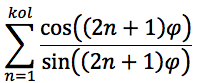
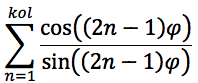
Added 4 new function

Changed region(s): [[0.6364, 0.6506, 0.6667, 0.8434], [0.6364, 0.241, 0.6667, 0.4337]]

diff --git a/src/modules/rFiAlgoritm.js b/src/modules/rFiAlgoritm.js
@@ -136,6 +136,18 @@ rFiAlgoritm = {
           pogresnost = Math.abs( Math.tan(globalVar.getFi(newX)) - arg );
           return pogresnost;
           break;
+      case 19 :       //  Погрешность для суммы sin(2k-1)fi /cos(2k-1)fi
+          pogresnost = Math.abs( 1 - arg );
+          return pogresnost;
+          break;
+      case 20 :       //  Погрешность для суммы
+          pogresnost = Math.abs( 1 - arg );
+          return pogresnost;
+          break;
+      case 21 :       //  Погрешность для суммы
+          pogresnost = Math.abs( Math.tan(globalVar.getFi(newX)) - arg );
+          return pogresnost;
+          break;
       default:
         return 'Нет погрешности для r';
         break
@@ -220,11 +232,9 @@ rFiAlgoritm = {
           break;
       case 16 :       //  Погрешность для суммы sin(4k-1)
             pogresnost = this.kratnoPi(Math.PI/2, globalVar.getFi(newX), arg);
-        //   pogresnost = Math.abs(globalVar.getFi(newX) - arg );
           return pogresnost;
           break;
       case 17 :       //  Погрешность для суммы cos(2k-1)fi /sin(2k-1)fi
-        //   pogresnost = Math.abs( Math.PI/2 - arg );
           pogresnost = Math.abs( Math.tan(globalVar.getFi(newX)) - arg );
           return pogresnost;
           break;
@@ -232,34 +242,26 @@ rFiAlgoritm = {
           pogresnost = Math.abs( 0 - arg );
           return pogresnost;
           break;
+      case 19 :       //  Погрешность для суммы cos(2k-1)fi /sin(2k-1)fi
+        pogresnost = Math.abs( Math.PI/2 - arg );
+        return pogresnost;
+        break;
+      case 20 :       //  Погрешность
+        pogresnost = Math.abs( Math.abs(globalVar.getFi(newX)) - arg );
+        return pogresnost;
+        break;
+      case 21 :       //  Погрешность
+        pogresnost = Math.abs( 0 - arg );
+        return pogresnost;
+        break;
+      case 22 :       //  Погрешность
+        pogresnost = Math.abs( 0 - arg );
+        return pogresnost;
+        break;
 
       default:
         return 'Нет погрешности для r';
         break
     }
   },
-
-  // getResult(colTab, value) {            //
-  //   switch(colTab) {                // где colTab -
-  //     case 'r' :       // r
-  //         resultTable.r[resultTable.countStr] = value;
-  //         resultTable.countStr += resultTable.countStr;
-  //         break;
-  //     case 'fi' :      // fi
-  //         resultTable.fi[resultTable.countStr] = value;
-  //         resultTable.countStr += resultTable.countStr;
-  //         break;
-  //     case 'er' :      // Погрешность r
-  //         resultTable.eR[resultTable.countStr] = value;
-  //         resultTable.countStr += resultTable.countStr;
-  //         break;
-  //     case 'efi' :     // Погрешность fi
-  //         resultTable.eFi[resultTable.countStr] = value;
-  //         resultTable.countStr += resultTable.countStr;
-  //         break;
-
-  //     default:
-  //       return 'Нет такой колонки';
-  //       break
-  // }
 };

diff --git a/src/modules/trigonom-func.js b/src/modules/trigonom-func.js
@@ -61,13 +61,23 @@ const trigonometFunc = {
           return this.summSin4n_1( countPQ, globalVar.getFi(newX) );
           break;
       case 17 :       //  Вычисления для суммы cos(2k-1)fi /sin(2k-1)fi
-          // return this.summCosDivSin3( countPQ, globalVar.getFi(newX) );
-          return this.summ_N_Sin( countPQ, globalVar.getFi(newX) );
+          return this.summNecet_Cos_Div_NecetSin( countPQ, globalVar.getFi(newX) );
           break;
-      case 18 :       //  Вычисления для суммы знакопеременного cos(2k-1)fi /sin(2k-1)fi
+      case 18 :       //  Вычисления для суммы знакопеременного (-1)^(n+1)cos(2k-1)fi /sin(2k-1)fi
           return this.summCosZnakoPeremen_DivSin( countPQ, globalVar.getFi(newX) );
           break;
-
+      case 19 :       //  Вычисления для суммы cos(k fi) /sin(k fi)
+          return this.summCosDivSin( countPQ, globalVar.getFi(newX) );
+          break;
+      case 20 :       //  Вычисления для суммы sin(2k)fi /sin(2k-1)fi
+          return this.summChetnSinDivNecetSin( countPQ, globalVar.getFi(newX) );
+          break;
+      case 21 :       //  Вычисления для суммы знакопеременного (-1)^(n+1)cos(2k-1)fi /(-1)^(n+1)sin(2k-1)fi
+          return this.summCosZnakoPeremen_DivSin( countPQ, globalVar.getFi(newX) );
+          break;
+      case 22 :       //  Вычисления для суммы  (1+1/n)*sin(k fi)
+          return this.summ_N_Sin( countPQ, globalVar.getFi(newX) );
+          break;
       default:
             return 'Нет такой функции';
             break
@@ -183,19 +193,19 @@ const trigonometFunc = {
     this.massPQ[n] = Math.sin((n+1)*fi) / Math.sin(n*fi);
     return this.massPQ[n];
   },
-  summCosDivSin(n, fi) {
+  summNecet_Cos_Div_NecetSin(n, fi) {
     this.massPQ2[n] = this.massPQ2[n-1] + Math.cos((2*n-1)*fi);
     this.massPQ3[n] = this.massPQ3[n-1] + Math.sin((2*n-1)*fi);
     this.massPQ[n] = this.massPQ2[n] / this.massPQ3[n];
     return this.massPQ[n];
   },
-  summCosDivSin2(n, fi) {
+  summCosDivSin(n, fi) {
     this.massPQ2[n] = this.massPQ2[n-1] + Math.cos(n*fi);
     this.massPQ3[n] = this.massPQ3[n-1] + Math.sin(n*fi);
     this.massPQ[n] = this.massPQ2[n] / this.massPQ3[n];
     return this.massPQ[n];
   },
-  summCosDivSin3(n, fi) {
+  summChetnSinDivNecetSin(n, fi) {
     this.massPQ2[n] = this.massPQ2[n-1] + Math.sin((2*n)*fi);
     this.massPQ3[n] = this.massPQ3[n-1] + Math.sin((2*n-1)*fi);
     this.massPQ[n] = this.massPQ2[n] / this.massPQ3[n];
@@ -212,7 +222,7 @@ const trigonometFunc = {
     return this.massPQ[n];
   },
 
-  summCosZnakoPeremen_DivSin2(n, fi) {
+  summZnPeremCos_Div_ZnPeremSin(n, fi) {
     if (n % 2 === 0) {
       this.massPQ2[n] = this.massPQ2[n-1] - Math.cos((2*n-1)*fi);
     } else {

diff --git a/src/modules/tableCreate.js b/src/modules/tableCreate.js
@@ -51,7 +51,11 @@ const tableHeader2 = {
   15 : standartHeder,
   16 : standartHeder,
   17 : standartHeder,
-  18 : standartHeder
+  18 : standartHeder,
+  19 : standartHeder,
+  20 : standartHeder,
+  21 : standartHeder,
+  22 : standartHeder
 };
 
 const funcIamges = {
@@ -166,14 +170,38 @@ const funcIamges = {
   17 : {
     mainImg :   "../../img/func-17.png",
     secondImg : "../../img/func-17.png",
-    altImgText: 'summCosDivSin((2n-1) fi)',
-    text: 'Функция сумма  cos((2n-1) fi) / sin((2n-1) fi)'
+    altImgText: 'summNecet_Cos_Div_NecetSin((2k-1)fi)',
+    text: 'Функция сумма дроби нечётных знакопеременных косинусов на синусы cos((2n-1) fi) / sin((2n-1) fi)'
   },
   18 : {
     mainImg :   "../../img/func-18.png",
     secondImg : "../../img/func-18.png",
+    altImgText: 'summCosZnakoPeremen_DivSin((2k-1)fi)',
+    text: 'Функция сумма  дроби  знакопеременного косинуса на синус ( (-1)^(n+1) * cos((2n-1) fi) ) / sin((2n-1) fi)'
+  },
+  19 : {
+    mainImg :   "../../img/func-19.png",
+    secondImg : "../../img/func-19.png",
     altImgText: 'summCosDivSin((2n-1) fi)',
-    text: 'Функция сумма  ( (-1)^(n+1) * cos((2n-1) fi) ) / sin((2n-1) fi)'
+    text: 'Функция сумма  cos((n fi) / sin(n fi)'
+  },
+  20 : {
+    mainImg :   "../../img/func-20.png",
+    secondImg : "../../img/func-20.png",
+    altImgText: 'summChetnSinDivNecetSin((2n) fi)',
+    text: 'Функция сумма дроби чётного синуса на нечётный синус sin((n fi) / sin((2n-1) fi)'
+  },
+  21 : {
+    mainImg :   "../../img/func-21.png",
+    secondImg : "../../img/func-21.png",
+    altImgText: 'summCosZnakoPeremen_DivSin((2n) fi)',
+    text: 'Функция сумма дроби знакопеременного нечётного косинуса на нечётный синус cos((2n-1) fi) / sin((2n-1) fi)'
+  },
+  22 : {
+    mainImg :   "../../img/func-22.png",
+    secondImg : "../../img/func-22.png",
+    altImgText: 'summ_N_Sin(n fi)',
+    text: 'Функция сумма  (1+1/n)*sin(n fi)'
   }
 };
 let tableWidth = 1200;

diff --git a/index.html b/index.html
@@ -179,7 +179,7 @@
                 <div class="modal-func__main__row">
                   <div class="func func-10" value="10"></div>
                   <div class="func func-11" value="11"></div>
-                  <div class="func func-12" value="12"></div> <!-- new -->
+                  <div class="func func-12" value="12"></div>
                   <div class="func func-13" value="13"></div>
                   <div class="func func-14" value="14"></div>
                 </div>
@@ -192,6 +192,13 @@
                   <div class="func func-19" value="19"></div>
                 </div>
 
+                <div class="modal-func__main__row">
+                  <div class="func func-20" value="20"></div> <!-- new -->
+                  <div class="func func-21" value="21"></div>
+                  <div class="func func-22" value="22"></div>
+                  <div class="func func-23" value="23"></div>
+                  <div class="func func-24" value="24"></div>
+                </div>
               </div>
 
               <div class="modal-func__bottom">

diff --git a/src/scss/main/_builder-content.scss b/src/scss/main/_builder-content.scss
@@ -113,6 +113,18 @@
 .func-18 {
   background-image: url('../../img/func-18.png');
 }
+.func-19 {
+  background-image: url('../../img/func-19.png');
+}
+.func-20 {
+  background-image: url('../../img/func-20.png');
+}
+.func-21 {
+  background-image: url('../../img/func-21.png');
+}
+.func-22 {
+  background-image: url('../../img/func-22.png');
+}
 
 .btn {
   min-width: 160px;
